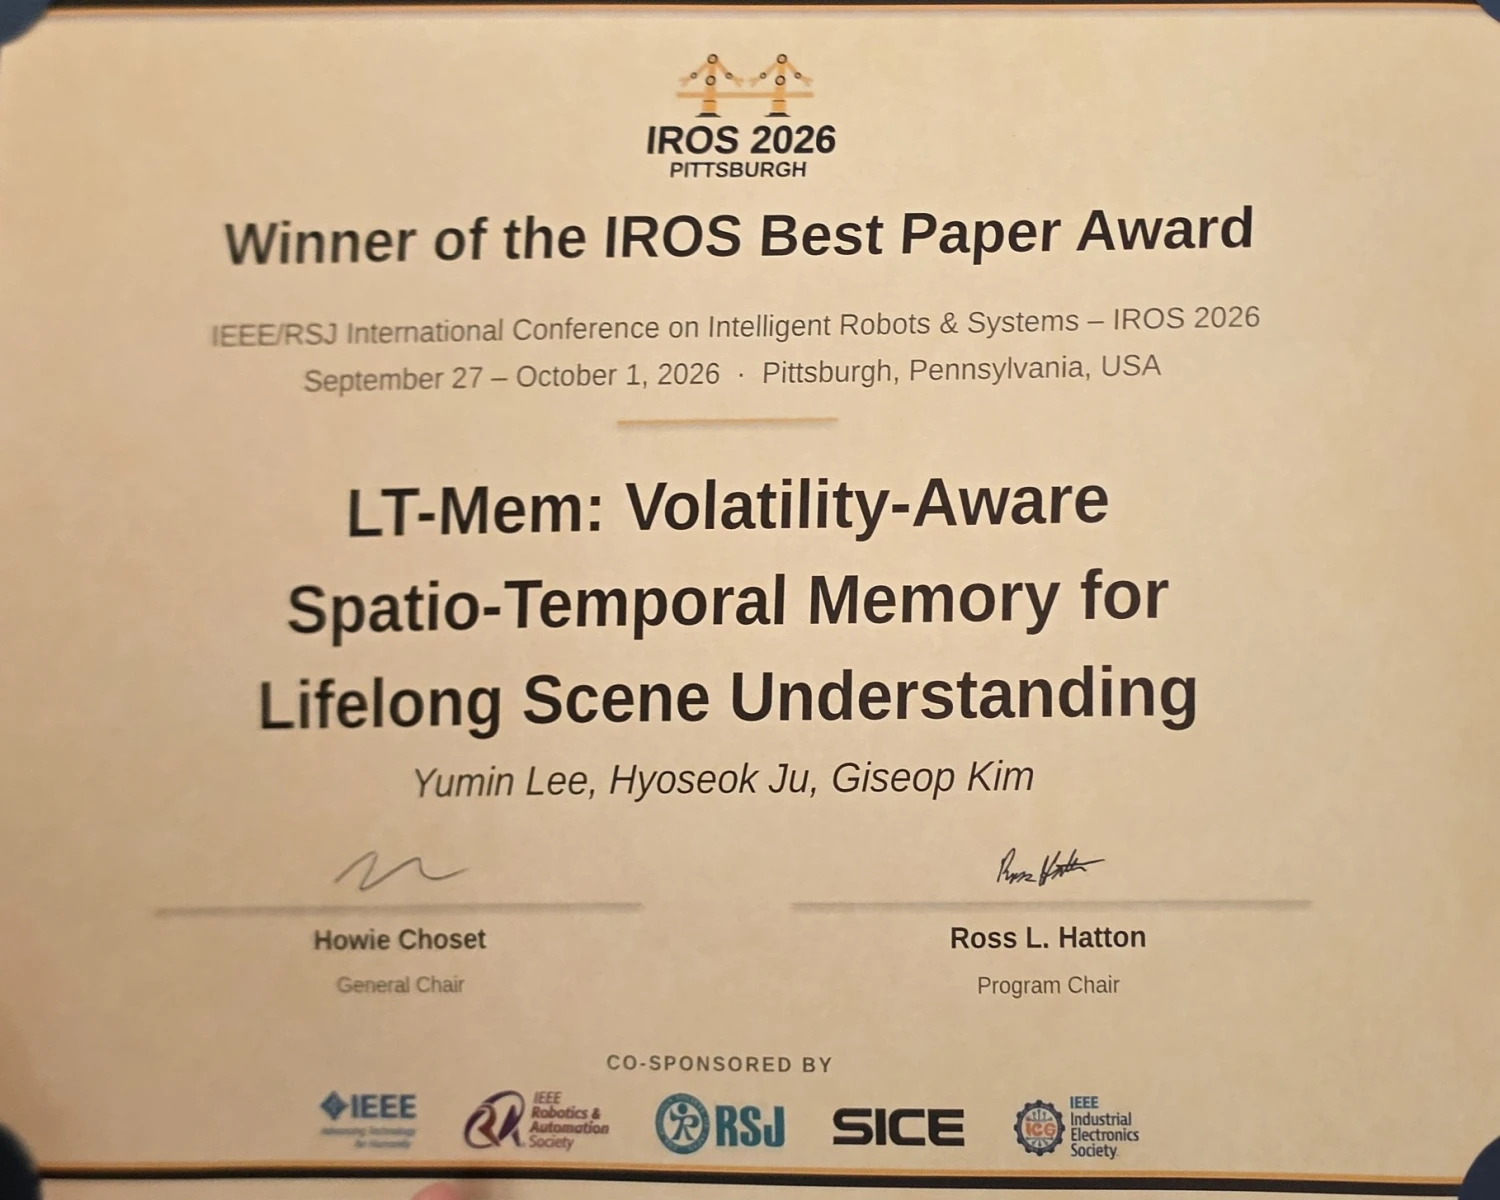
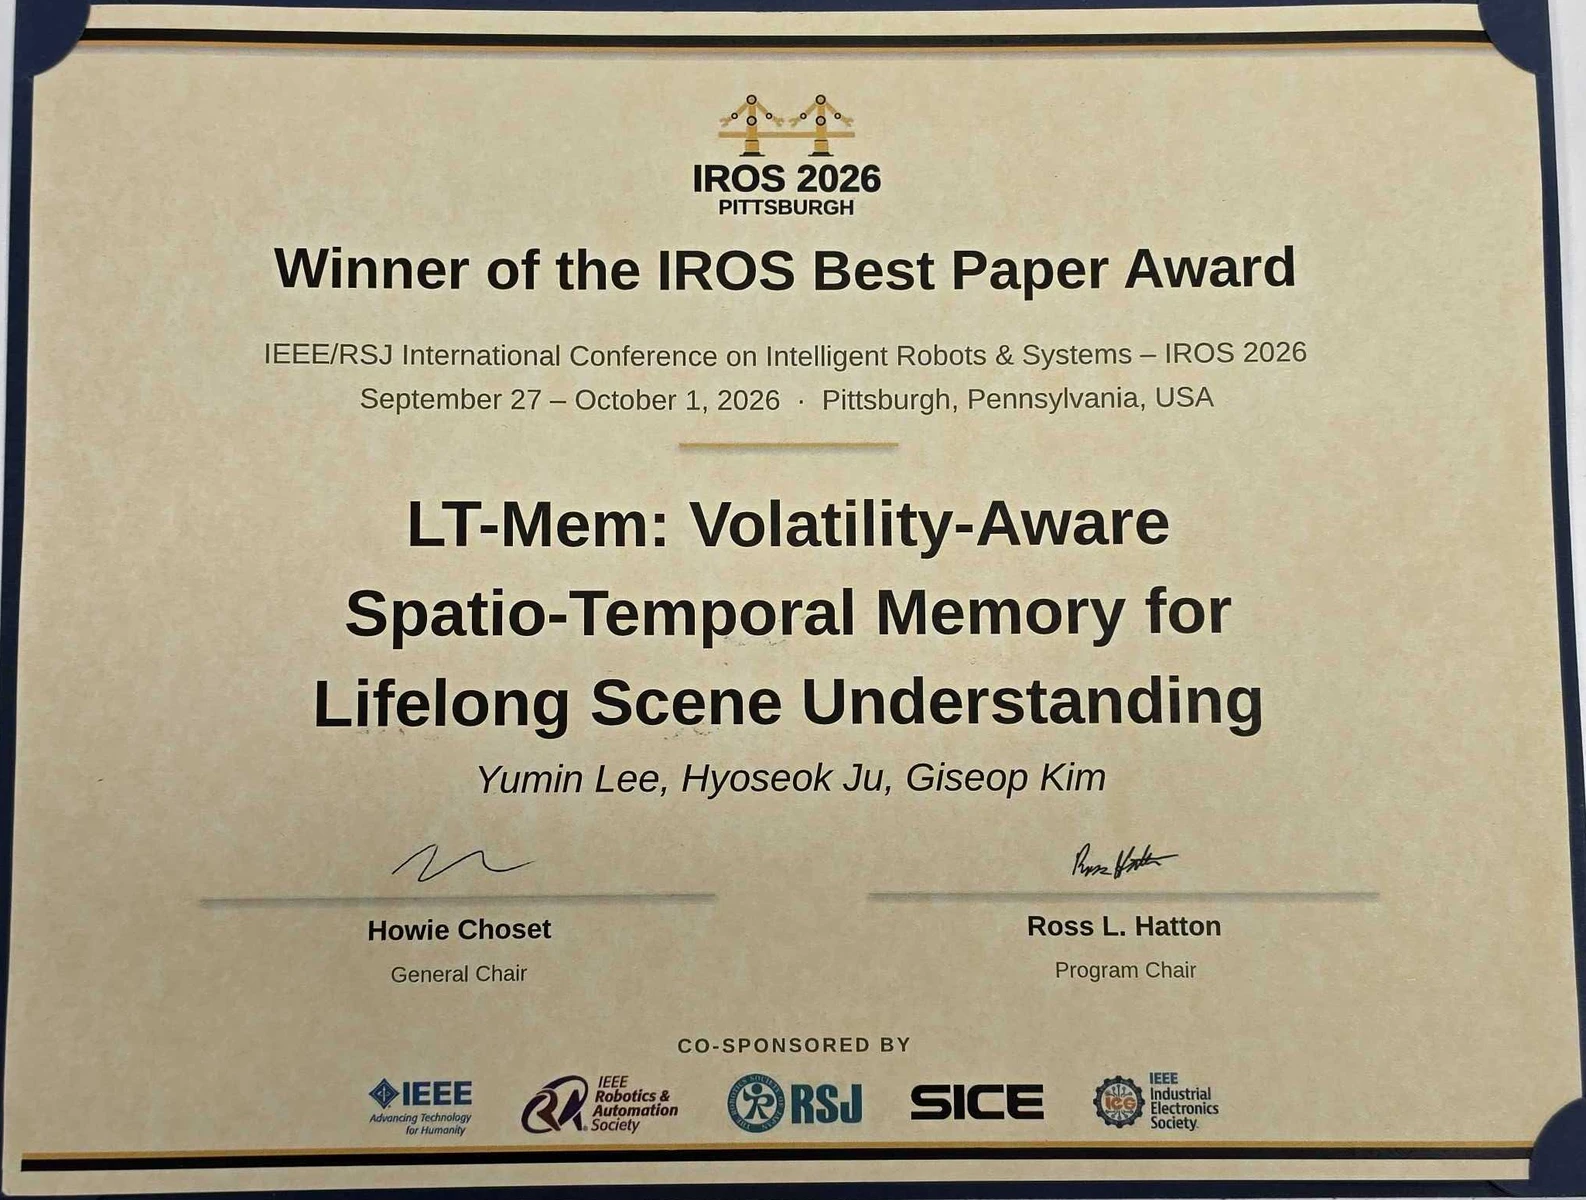
Update LT-Mem award certificate photos and add WiRA certificate link

diff --git a/news-language.js b/news-language.js
@@ -1,6 +1,6 @@
 (() => {
   const translations = {
-    "lt-mem-wira-finalist": `<span class="news-tag tag-award">수상</span><a href="team.html#team-member-yumin-lee">이유민</a> 님이 <a href="publications.html?year=2026&amp;venue=iros&amp;q=LT-Mem#lt-mem">LT-Mem</a>으로 <a href="https://2026.ieee-iros.org/">IROS 2026</a> Outstanding WiRA Student Paper Award의 <a href="assets/news/lt-mem-iros2026-wira-finalists-preview.webp">최종 후보</a>로 선정되어, WiRA Award Paper Pitch 세션에서 <a href="assets/news/lt-mem-iros2026-wira-presentation-preview.webp">연구를 발표했습니다</a>. 이유민 님, 축하합니다!`,
+    "lt-mem-wira-finalist": `<span class="news-tag tag-award">수상</span><a href="team.html#team-member-yumin-lee">이유민</a> 님이 <a href="publications.html?year=2026&amp;venue=iros&amp;q=LT-Mem#lt-mem">LT-Mem</a>으로 <a href="https://2026.ieee-iros.org/">IROS 2026</a> Outstanding WiRA Student Paper Award의 <a href="assets/news/lt-mem-iros2026-wira-finalists-preview.webp">최종 후보</a>로 선정되어, WiRA Award Paper Pitch 세션에서 <a href="assets/news/lt-mem-iros2026-wira-presentation-preview.webp">연구를 발표했습니다</a>. 이유민 님, 축하합니다! (<a href="assets/news/lt-mem-iros2026-wira-certificate-preview.webp">상장</a>)`,
     "iros-workshops-2026": `<span class="news-tag tag-publication">논문</span><a href="publications.html?year=2026&amp;type=workshop&amp;venue=iros-ws#publications">APRL 워크숍 논문 2편</a>이 IROS 2026 워크숍에 채택되었습니다. <a href="team.html#team-member-hyunwoo-kim-2026-fall">김현우</a> 님의 <a href="publications.html?year=2026&amp;type=workshop&amp;venue=iros-ws#fieldmatch-iros-2026">FieldMatch</a>는 <a href="https://jonasfrey96.github.io/data_in_field_robotics/">Data in Field Robotics (DFR)</a>에, <a href="team.html#team-member-ayun-lee-2026-fall">이아윤</a> 님의 <a href="publications.html?year=2026&amp;type=workshop&amp;venue=iros-ws#v2l-nav-iros-2026">From Clicks to Motion (V2L-Nav)</a>은 <a href="https://bridging-navigation.github.io/website/">Bridge4Navigation</a>에 채택되었습니다. <a href="team.html#team-member-hyunwoo-kim-2026-fall">김현우</a> 님과 <a href="team.html#team-member-ayun-lee-2026-fall">이아윤</a> 님, 축하합니다!`,
     "ugrp-2026-dori-excellence": `<span class="news-tag tag-award">수상</span><a href="team.html#ugrp-2026-dori">UGRP 팀(Prof. Joon-hyuk Park 공동지도)</a>이 <a href="assets/news/ugrp-2026-dori-excellence-preview.webp">2026 DGIST UGRP Conference</a>에서 <a href="https://dgist-dori.github.io/" target="_blank" rel="noopener noreferrer">DORI: DGIST O-shaped Robot with Interaction</a> 프로젝트로 <a href="assets/news/ugrp-2026-dori-excellence-preview.webp">우수상(Top 2)</a> <a href="https://www.youtube.com/shorts/frhhvm0k2sY?si=HfJeU7LrQ31T9DaB" target="_blank" rel="noopener noreferrer">(Video)</a>을 수상했습니다. 팀의 멋진 성과를 축하합니다!`,
     "nrf-masters-fellowship-jiseon-kim": `<span class="news-tag tag-funding">연구비</span><a href="team.html#team-member-jiseon-kim">김지선</a> 님이 <a href="assets/news/nrf-2026-masters-student-research-fellowship-jiseon-kim.png">2026년도 이공분야 학술연구지원사업(석사과정생연구장려금지원사업)</a>에 선정되었습니다. 축하합니다!`,

diff --git a/news.html b/news.html
@@ -48,7 +48,7 @@ extra_scripts:
           </li>
           <li data-news-category="award" data-news-id="lt-mem-wira-finalist" data-home-reveal="true">
             <time datetime="2026-09-29">Sep 29, 2026</time>
-            <p><span class="news-tag tag-award">Award</span><a href="team.html#team-member-yumin-lee">Yumin</a> was selected as a <a href="assets/news/lt-mem-iros2026-wira-finalists-preview.webp">finalist</a> for the Outstanding WiRA Student Paper Award at <a href="https://2026.ieee-iros.org/">IROS 2026</a> for <a href="publications.html?year=2026&amp;venue=iros&amp;q=LT-Mem#lt-mem">LT-Mem</a> and <a href="assets/news/lt-mem-iros2026-wira-presentation-preview.webp">presented her work</a> at the WiRA Award Paper Pitch session. Congratulations, <a href="team.html#team-member-yumin-lee">Yumin</a>!</p>
+            <p><span class="news-tag tag-award">Award</span><a href="team.html#team-member-yumin-lee">Yumin</a> was selected as a <a href="assets/news/lt-mem-iros2026-wira-finalists-preview.webp">finalist</a> for the Outstanding WiRA Student Paper Award at <a href="https://2026.ieee-iros.org/">IROS 2026</a> for <a href="publications.html?year=2026&amp;venue=iros&amp;q=LT-Mem#lt-mem">LT-Mem</a> and <a href="assets/news/lt-mem-iros2026-wira-presentation-preview.webp">presented her work</a> at the WiRA Award Paper Pitch session. Congratulations, <a href="team.html#team-member-yumin-lee">Yumin</a>! (<a href="assets/news/lt-mem-iros2026-wira-certificate-preview.webp">Certificate</a>)</p>
           </li>
           <li data-news-category="publication" data-news-id="iros-workshops-2026" data-home-reveal="true">
             <time datetime="2026-09-16">Sep 16, 2026</time>

diff --git a/README.md b/README.md
@@ -35,3 +35,8 @@ Award finalist PDFs are preserved in `assets/news/` as
 `lt-mem-iros2026-best-paper-finalist-certificate.pdf` and
 `lt-mem-iros2026-best-student-paper-finalist-certificate.pdf`. These two PDFs
 certify finalist selection; the separate award news links to the winning certificate.
+
+The winning Best Paper Award and WiRA finalist certificate photos are cropped
+and rotated from the original photographs without generated content. Their
+full-resolution PNG edits and bounded WebP previews are kept in `assets/news/`;
+both English and Korean news entries link to the corresponding preview.
